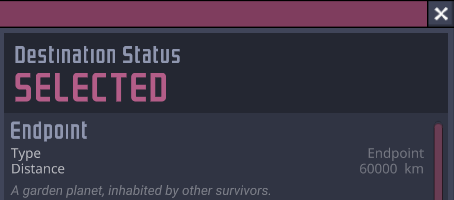
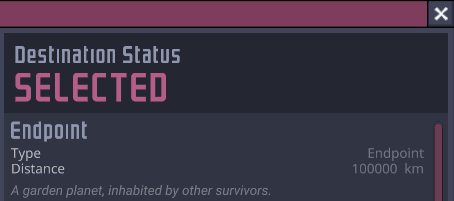
Endpoint: Increase distance to 100000 km

diff --git a/Endpoint/EndpointPatches.cs b/Endpoint/EndpointPatches.cs
@@ -27,7 +27,7 @@ namespace Endpoint
     [HarmonyPatch(typeof(SpacecraftManager), "OnSpawn")]
     internal class Endpoint_SpacecraftManager_OnSpawn
     {
-        const int DISTANCE = 5;
+        const int DISTANCE = 9;
 
         private static void Postfix(SpacecraftManager __instance)
         {

diff --git a/README.md b/README.md
@@ -8,7 +8,7 @@ Install these mods from the [Steam Workshop](https://steamcommunity.com/profiles
 
 Escape the asteroid! You can now send duplicants on a one-way flight to Endpoint, a habitable world populated by other survivors. New duplicants gain a +1 bonus to all attributes for each time their type been rescued.
 
-- A special terrestrial planet named "Endpoint" is added at 60000 km.
+- A special terrestrial planet named "Endpoint" is added at 100000 km.
 - Command and Sightseeing modules gain the option to leave duplicants at Endpoint. If set on a Command module the rocket will still return on autopilot.
 - The new "Endpoint" button on the main menu lists all the duplicants you've rescued this way.
 
